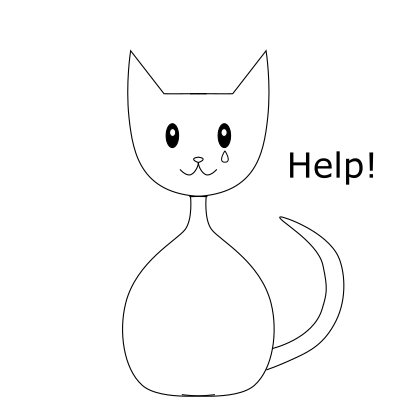
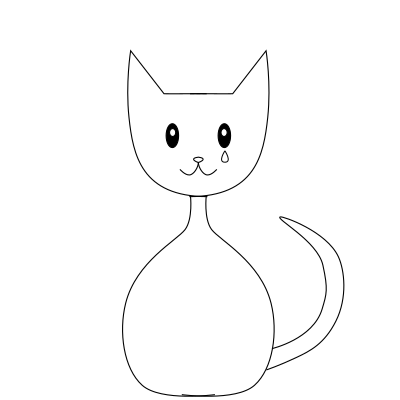
Styled the website

Changed region(s): [[0.72, 0.36, 0.93, 0.45]]

diff --git a/kitty.html b/kitty.html
@@ -5,73 +5,74 @@
 	<meta name="viewport" content="width=device-width, initial-scale=1">
 	<title>Play With the Kitty!</title>
 	<link rel="stylesheet" type="text/css" href="css/kitty.css">
+	<link href="https://fonts.googleapis.com/css2?family=Varela+Round&display=swap" rel="stylesheet">
 	<script type="text/javascript" src="js/kitty.js"></script>
 </head>
 <body class="body-state1">
 	<div class="left">
 		<!-- Starting page -->
-		<div class="state1">
+		<div class="interface state1">
 			<h1>Play With the Kitty!</h1>
 			<a href="#" class="button" onclick="changeState(2);">Start</a>
 		</div>
 		<!-- Select yarn or mouse -->
-		<div class="state2">
+		<div class="interface state2">
 			<h1>Select a toy</h1>
-			<a href="#" class="button" onclick="changeState(3);">Yarn</a>
-			<a href="#" class="button" onclick="changeState(4);">Mouse</a>
-			<a href="#" class="button" onclick="changeState(1);">Exit</a>
+			<a href="#" class="button2" onclick="changeState(3);">Yarn</a>
+			<a href="#" class="button2" onclick="changeState(4);">Mouse</a>
+			<a href="#" class="button2" onclick="changeState(1);">Exit</a>
 		</div>
 		<!-- Yarn - Countdown -->
-		<div class="state3">
+		<div class="interface state3">
 			<h1 id="countdown1">3</h1>
 		</div>
 		<!-- Mouse - Countdown -->
-		<div class="state4">
+		<div class="interface state4">
 			<h1 id="countdown2">3</h1>
 		</div>
 		<!-- Yarn - Drop toy -->
-		<div class="state5">
+		<div class="interface state5">
 			<h1>Here you go, kitty!</h1>
 		</div>
 		<!-- Mouse - Drop toy -->
-		<div class="state6">
+		<div class="interface state6">
 			<h1>Here you go, kitty!</h1>
 		</div>
 		<!-- Yarn - he loves it! -->
-		<div class="state7">
+		<div class="interface state7">
 			<h1>He loves it!!</h1>
 			<a href="#" class="button" onclick="changeState(2);">Again</a>
 			<a href="#" class="button" onclick="changeState(1);">Exit</a>
 		</div>		
 		<!-- Yarn - he's tangled! -->
-		<div class="state8">
+		<div class="interface state8">
 			<h1>Oh no! He's tangled up!</h1>
 			<a href="#" class="button" onclick="changeState(12);">Help</a>
 		</div>
 		<!-- Mouse - he loves it! -->
-		<div class="state9">
+		<div class="interface state9">
 			<h1>He loves it!!</h1>
 			<a href="#" class="button" onclick="changeState(2);">Again</a>
 			<a href="#" class="button" onclick="changeState(1);">Exit</a>
 		</div>
 		<!-- Mouse - it went under the table! -->
-		<div class="state10">
+		<div class="interface state10">
 			<h1>Oh no! The mouse went under the table!</h1>
 			<a href="#" class="button" onclick="changeState(13);">Help</a>
 		</div>
 		<!-- He's bored and naps -->
-		<div class="state11">
+		<div class="interface state11">
 			<h1>Kitty is bored... he went to take a nap</h1>
 			<a href="#" class="button" onclick="changeState(1);">Exit</a>
 		</div>	
 		<!-- Yarn - thank you! -->
-		<div class="state12">
+		<div class="interface state12">
 			<h1>Kitty says thank you!</h1>
 			<a href="#" class="button" onclick="changeState(2);">Again</a>
 			<a href="#" class="button" onclick="changeState(1);">Exit</a>
 		</div>
 		<!-- Mouse - thank you! -->
-		<div class="state13">
+		<div class="interface state13">
 			<h1>Kitty says thank you!</h1>
 			<a href="#" class="button" onclick="changeState(2);">Again</a>
 			<a href="#" class="button" onclick="changeState(1);">Exit</a>
@@ -82,6 +83,10 @@
 		<div class="cat"></div>
 		<div class="yarn"></div>
 		<div class="mouse"></div>
+		<div class="lets-play" id="lets-play"></div>
+		<div class="zzz" id="zzz"></div>
+		<div class="help" id="help"></div>
+		<div class="thank-you" id="thank-you"></div>
 	</div>
 
 </body>

diff --git a/css/kitty.css b/css/kitty.css
@@ -1,11 +1,48 @@
 h1 {
-
+	font-size: 35px;
 }
 a {
 
 }
-a.button {
 
+body {
+	font-family: Varela Round, Geneva, Arial;
+}
+
+.interface {
+	text-align: center;
+	padding: 20px;
+}
+
+a.button {
+	display: inline-block;
+	color: white;
+	background-color: lightblue;
+	text-decoration: none;
+	font-size: 20px;
+	border-radius: 10px;
+	text-transform: uppercase;
+	padding: 15px 25px;
+	transition: background-color 300ms;
+}
+
+a.button2 {
+	display: inline-block;
+	color: lightblue;
+	text-decoration: none;
+	font-size: 25px;
+	text-transform: uppercase;
+	padding-left: 7px;
+	padding-right: 7px;
+	transition: color 300ms;	
+}
+
+a.button:hover {
+	background-color: pink;
+}
+
+a.button2:hover {
+	color: pink;
 }
 
 .left {
@@ -45,6 +82,62 @@ a.button {
 	margin-left: -37.5px;
 	background:  url('../img/yarn.png') no-repeat 0 0; 
 	transition: top 2500ms;
+}
+
+.lets-play {
+	position: absolute;
+	bottom:  350px;
+	left: 60%;
+	background: url('../img/lets-play.png') no-repeat 0 0;
+	width: 190px;
+	height: 70px;
+	display: none;
+}
+
+.lets-play.show {
+	display: block;
+}
+
+.zzz {
+	position: absolute;
+	bottom:  300px;
+	left: 65%;
+	background: url('../img/zzz.png') no-repeat 0 0;
+	width: 190px;
+	height: 70px;
+	display: none;
+}
+
+.zzz.show {
+	display: block;
+}
+
+.help {
+	position: absolute;
+	bottom:  300px;
+	left: 10%;
+	background: url('../img/help.png') no-repeat 0 0;
+	width: 190px;
+	height: 70px;
+	display: none;
+}
+
+.help.show {
+	display: block;
+}
+
+.thank-you {
+	position: absolute;
+	bottom:  350px;
+	left: 5%;
+	background: url('../img/thank-you.png') no-repeat 0 0;
+	width: 190px;
+	height: 70px;
+	display: none;
+}
+
+.thank-you.show {
+	display: block;
 }
 
 body.body-state1 .yarn,

diff --git a/js/kitty.js b/js/kitty.js
@@ -22,7 +22,7 @@ var changeState = function(state) {
 	else if (state==5) {
 		var success=setTimeout( function() {
 			var rand = Math.round(Math.random()*10);
-			if (rand > 10) {
+			if (rand > 5) {
 				changeState(7);} // success-yarn
 			else if (rand > 2) {
 				changeState(8);} //tangled-yarn
@@ -43,8 +43,25 @@ var changeState = function(state) {
 		},2000);
 	}
 
-	else if (state==7) {
-		//do something
+	if (state==8 || state==10) {
+		document.getElementById('help').className = "help show";
+	}
+	else {
+		document.getElementById('help').className = "help";
+	}
+
+	if (state==11) {
+		document.getElementById('zzz').className = "zzz show";
+	}
+	else {
+		document.getElementById('zzz').className = "zzz";
+	}
+
+	if (state==12 || state==13) {
+		document.getElementById('thank-you').className = "thank-you show";
+	}
+	else {
+		document.getElementById('thank-you').className = "thank-you";
 	}
 	
 }
@@ -53,8 +70,14 @@ var countdownFunction = function(state,countID) {
 	timer = setInterval( function() {
 		countdownNumber = countdownNumber - 1;
 		document.getElementById('countdown'+countID).innerHTML = countdownNumber;
+		if (countdownNumber < 3 && countdownNumber > 0) {
+			document.getElementById('lets-play').className = "lets-play show";
+		}
+		else {
+			document.getElementById('lets-play').className = "lets-play";
+		}
 		if (countdownNumber <= 0) {
 			changeState(state);
 		}
-	}, 1000);
+	}, 800);
 }
